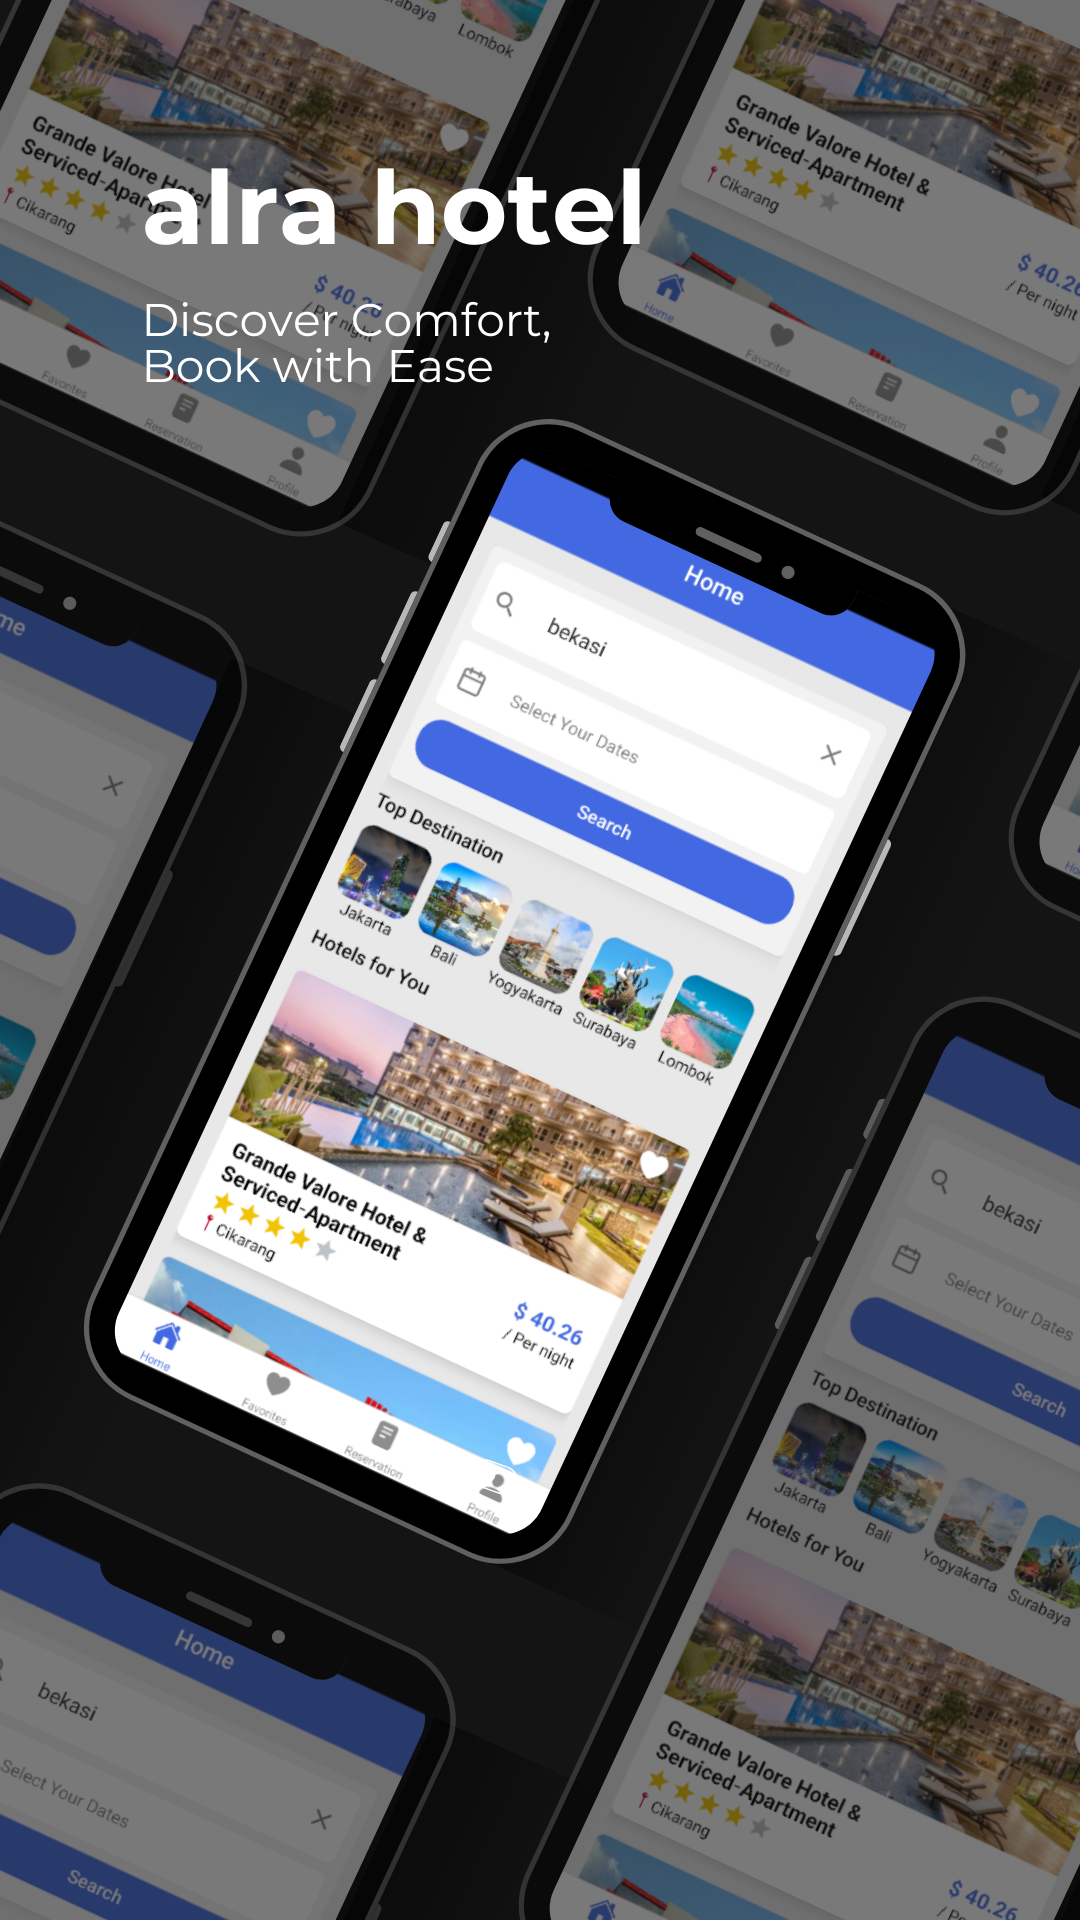
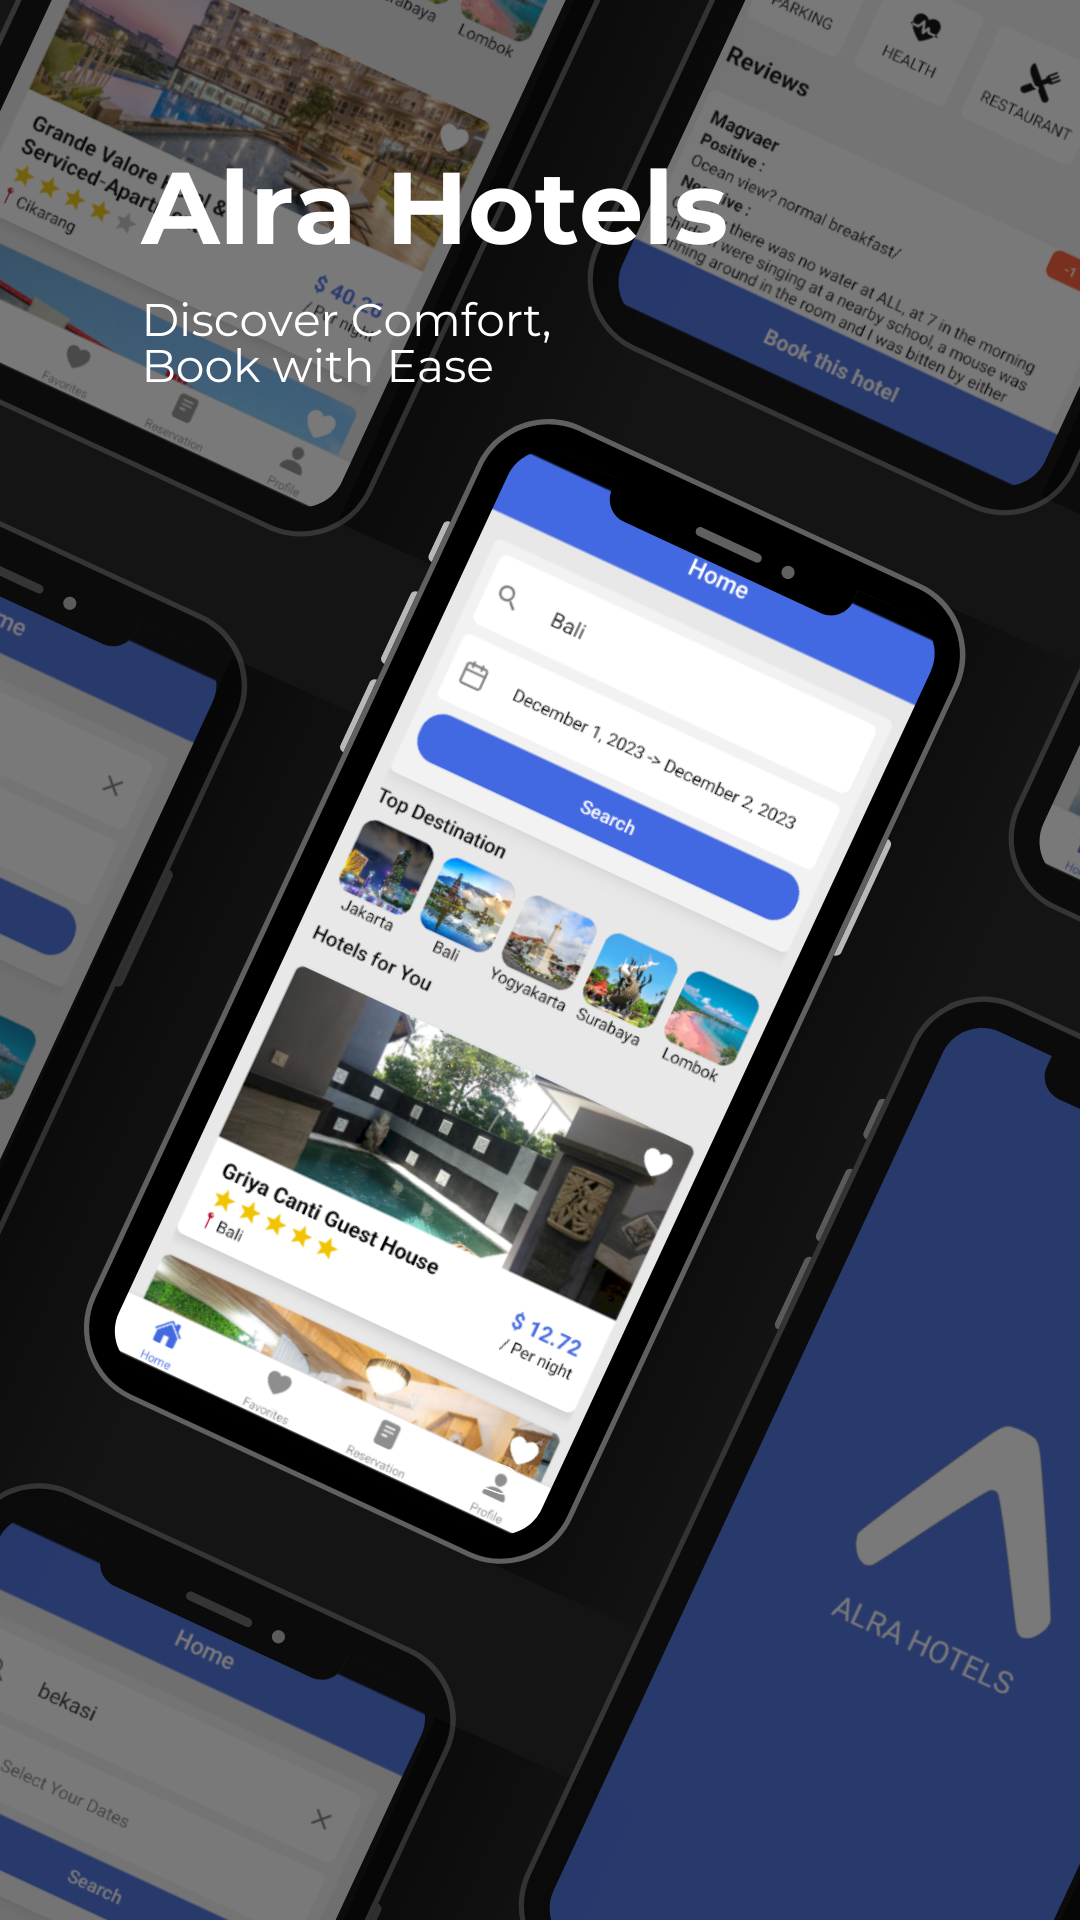
final update for UI Alra v1

diff --git a/src/pages/home/parts/CardTopDesti.js b/src/pages/home/parts/CardTopDesti.js
@@ -1,175 +1,187 @@
 import React from "react";
 import { View, Text, TouchableOpacity, Image } from "react-native";
 
-const CardTopDesti = () => {
+const CardTopDesti = ({ onSelectCity }) => {
   return (
     <>
       {/* Jakarta */}
-      <View style={{ flexDirection: "column" }}>
-        <View
-          style={{
-            width: 66,
-            height: 66,
-            borderRadius: 12,
-            backgroundColor: "black",
-            marginRight: 5,
-          }}
-        >
-          <Image
-            source={{
-              uri: "https://www.indonesia.travel/content/dam/indtravelrevamp/en/destinations/java/dki-jakarta/Image1.jpg",
+      <TouchableOpacity onPress={() => onSelectCity("Jakarta")}>
+        <View style={{ flexDirection: "column" }}>
+          <View
+            style={{
+              width: 66,
+              height: 66,
+              borderRadius: 12,
+              backgroundColor: "black",
+              marginRight: 5,
             }}
-            style={{ width: 66, height: 66, borderRadius: 12 }}
-          />
+          >
+            <Image
+              source={{
+                uri: "https://www.indonesia.travel/content/dam/indtravelrevamp/en/destinations/java/dki-jakarta/Image1.jpg",
+              }}
+              style={{ width: 66, height: 66, borderRadius: 12 }}
+            />
+          </View>
+          <Text
+            style={{
+              textAlign: "center",
+              color: "black",
+            }}
+          >
+            Jakarta
+          </Text>
         </View>
-        <Text
-          style={{
-            textAlign: "center",
-            color: "black",
-          }}
-        >
-          Jakarta
-        </Text>
-      </View>
+      </TouchableOpacity>
       {/* Bali */}
-      <View style={{ flexDirection: "column" }}>
-        <View
-          style={{
-            width: 66,
-            height: 66,
-            borderRadius: 12,
-            backgroundColor: "black",
-            marginHorizontal: 5,
-          }}
-        >
-          <Image
-            source={{
-              uri: "https://d3p0bla3numw14.cloudfront.net/news-content/img/2021/05/03112735/Tempat-Tinggal-Terbaik-di-Bali.jpg",
+      <TouchableOpacity onPress={() => onSelectCity("Bali")}>
+        <View style={{ flexDirection: "column" }}>
+          <View
+            style={{
+              width: 66,
+              height: 66,
+              borderRadius: 12,
+              backgroundColor: "black",
+              marginHorizontal: 5,
             }}
-            style={{ width: 66, height: 66, borderRadius: 12 }}
-          />
+          >
+            <Image
+              source={{
+                uri: "https://d3p0bla3numw14.cloudfront.net/news-content/img/2021/05/03112735/Tempat-Tinggal-Terbaik-di-Bali.jpg",
+              }}
+              style={{ width: 66, height: 66, borderRadius: 12 }}
+            />
+          </View>
+          <Text
+            style={{
+              textAlign: "center",
+              color: "black",
+            }}
+          >
+            Bali
+          </Text>
         </View>
-        <Text
-          style={{
-            textAlign: "center",
-            color: "black",
-          }}
-        >
-          Bali
-        </Text>
-      </View>
+      </TouchableOpacity>
       {/* Yogyakarta */}
-      <View style={{ flexDirection: "column" }}>
-        <View
-          style={{
-            width: 66,
-            height: 66,
-            borderRadius: 12,
-            backgroundColor: "black",
-            marginHorizontal: 5,
-          }}
-        >
-          <Image
-            source={{
-              uri: "https://upload.wikimedia.org/wikipedia/commons/1/10/Yogyakarta_Indonesia_Tugu-Yogyakarta-02.jpg",
+      <TouchableOpacity onPress={() => onSelectCity("Yogyakarta")}>
+        <View style={{ flexDirection: "column" }}>
+          <View
+            style={{
+              width: 66,
+              height: 66,
+              borderRadius: 12,
+              backgroundColor: "black",
+              marginHorizontal: 5,
             }}
-            style={{ width: 66, height: 66, borderRadius: 12 }}
-          />
+          >
+            <Image
+              source={{
+                uri: "https://upload.wikimedia.org/wikipedia/commons/1/10/Yogyakarta_Indonesia_Tugu-Yogyakarta-02.jpg",
+              }}
+              style={{ width: 66, height: 66, borderRadius: 12 }}
+            />
+          </View>
+          <Text
+            style={{
+              textAlign: "center",
+              color: "black",
+            }}
+          >
+            Yogyakarta
+          </Text>
         </View>
-        <Text
-          style={{
-            textAlign: "center",
-            color: "black",
-          }}
-        >
-          Yogyakarta
-        </Text>
-      </View>
+      </TouchableOpacity>
       {/* Surabaya */}
-      <View style={{ flexDirection: "column" }}>
-        <View
-          style={{
-            width: 66,
-            height: 66,
-            borderRadius: 12,
-            backgroundColor: "black",
-            marginHorizontal: 5,
-          }}
-        >
-          <Image
-            source={{
-              uri: "https://img.okezone.com/content/2022/12/08/337/2722874/ini-5-alasan-kenapa-kota-surabaya-disebut-kota-pahlawan-nWb0plbz3Y.jpg",
+      <TouchableOpacity onPress={() => onSelectCity("Surabaya")}>
+        <View style={{ flexDirection: "column" }}>
+          <View
+            style={{
+              width: 66,
+              height: 66,
+              borderRadius: 12,
+              backgroundColor: "black",
+              marginHorizontal: 5,
             }}
-            style={{ width: 66, height: 66, borderRadius: 12 }}
-          />
+          >
+            <Image
+              source={{
+                uri: "https://img.okezone.com/content/2022/12/08/337/2722874/ini-5-alasan-kenapa-kota-surabaya-disebut-kota-pahlawan-nWb0plbz3Y.jpg",
+              }}
+              style={{ width: 66, height: 66, borderRadius: 12 }}
+            />
+          </View>
+          <Text
+            style={{
+              textAlign: "center",
+              color: "black",
+            }}
+          >
+            Surabaya
+          </Text>
         </View>
-        <Text
-          style={{
-            textAlign: "center",
-            color: "black",
-          }}
-        >
-          Surabaya
-        </Text>
-      </View>
+      </TouchableOpacity>
       {/* Lombok */}
-      <View style={{ flexDirection: "column" }}>
-        <View
-          style={{
-            width: 66,
-            height: 66,
-            borderRadius: 12,
-            backgroundColor: "black",
-            marginHorizontal: 5,
-          }}
-        >
-          <Image
-            source={{
-              uri: "https://blog.antavaya.com/wp-content/uploads/2020/03/Destinasi-Wisata-Lombok-Paling-Populer-Tahun-2020-Sumber-Instagram-kezyayoanas_.jpg",
+      <TouchableOpacity onPress={() => onSelectCity("Lombok")}>
+        <View style={{ flexDirection: "column" }}>
+          <View
+            style={{
+              width: 66,
+              height: 66,
+              borderRadius: 12,
+              backgroundColor: "black",
+              marginHorizontal: 5,
             }}
-            style={{ width: 66, height: 66, borderRadius: 12 }}
-          />
+          >
+            <Image
+              source={{
+                uri: "https://blog.antavaya.com/wp-content/uploads/2020/03/Destinasi-Wisata-Lombok-Paling-Populer-Tahun-2020-Sumber-Instagram-kezyayoanas_.jpg",
+              }}
+              style={{ width: 66, height: 66, borderRadius: 12 }}
+            />
+          </View>
+          <Text
+            style={{
+              textAlign: "center",
+              color: "black",
+            }}
+          >
+            Lombok
+          </Text>
         </View>
-        <Text
-          style={{
-            textAlign: "center",
-            color: "black",
-          }}
-        >
-          Lombok
-        </Text>
-      </View>
+      </TouchableOpacity>
       {/* Aceh */}
-      <View
-        style={{
-          flexDirection: "column",
-          marginLeft: 5,
-        }}
-      >
+      <TouchableOpacity onPress={() => onSelectCity("Aceh")}>
         <View
           style={{
-            width: 66,
-            height: 66,
-            borderRadius: 12,
-            backgroundColor: "black",
+            flexDirection: "column",
+            marginLeft: 5,
           }}
         >
-          <Image
-            source={{
-              uri: "https://www.indonesia.travel/content/dam/indtravelrevamp/id-id/destinasi/banda-aceh/image-1.jpg",
+          <View
+            style={{
+              width: 66,
+              height: 66,
+              borderRadius: 12,
+              backgroundColor: "black",
             }}
-            style={{ width: 66, height: 66, borderRadius: 12 }}
-          />
+          >
+            <Image
+              source={{
+                uri: "https://www.indonesia.travel/content/dam/indtravelrevamp/id-id/destinasi/banda-aceh/image-1.jpg",
+              }}
+              style={{ width: 66, height: 66, borderRadius: 12 }}
+            />
+          </View>
+          <Text
+            style={{
+              textAlign: "center",
+              color: "black",
+            }}
+          >
+            Aceh
+          </Text>
         </View>
-        <Text
-          style={{
-            textAlign: "center",
-            color: "black",
-          }}
-        >
-          Aceh
-        </Text>
-      </View>
+      </TouchableOpacity>
     </>
   );
 };

diff --git a/src/pages/home/home.js b/src/pages/home/home.js
@@ -1,4 +1,4 @@
-import { StyleSheet, ScrollView, View, Text, Image } from "react-native";
+import { StyleSheet, ScrollView, View, Text, StatusBar } from "react-native";
 import { useEffect, useState } from "react";
 import { useDispatch, useSelector } from "react-redux";
 import ItemFilter from "./parts/item-filter";
@@ -99,6 +99,11 @@ export default Home = ({ navigation }) => {
 
   return (
     <ScrollView style={styles.container}>
+      <StatusBar
+        barStyle="white-content"
+        translucent={true}
+        backgroundColor="transparent"
+      />
       <ItemFilter
         setInputCity={setInputCity}
         handleConfirmSearch={handleConfirmSearch}
@@ -110,7 +115,7 @@ export default Home = ({ navigation }) => {
         showsHorizontalScrollIndicator={false}
         horizontal={true}
       >
-        <CardTopDesti />
+        <CardTopDesti onSelectCity={setInputCity} />
       </ScrollView>
 
       {/* <Text style={styles.texttpd}>Popular Destination</Text>

diff --git a/src/pages/Splashscreen/index.js b/src/pages/Splashscreen/index.js
@@ -16,9 +16,9 @@ const Splashscreen = ({ navigation }) => {
       />
       <Image
         source={require("../../../assets/logo.png")}
-        style={{ width: 200, height: 200 }}
+        style={{ width: 175, height: 175 }}
       />
-      <Text style={styles.text}>ALRA HOTEL</Text>
+      <Text style={styles.text}>ALRA HOTELS</Text>
     </View>
   );
 };

diff --git a/README.md b/README.md
@@ -4,7 +4,7 @@ Alra Hotels is a hotel booking application.
 
 ## Preview
 
-<img src="assets/alra.png" width="200">
+<img src="assets/alra.png" width="666">
 
 ## 🛠 Tech Stack
 
